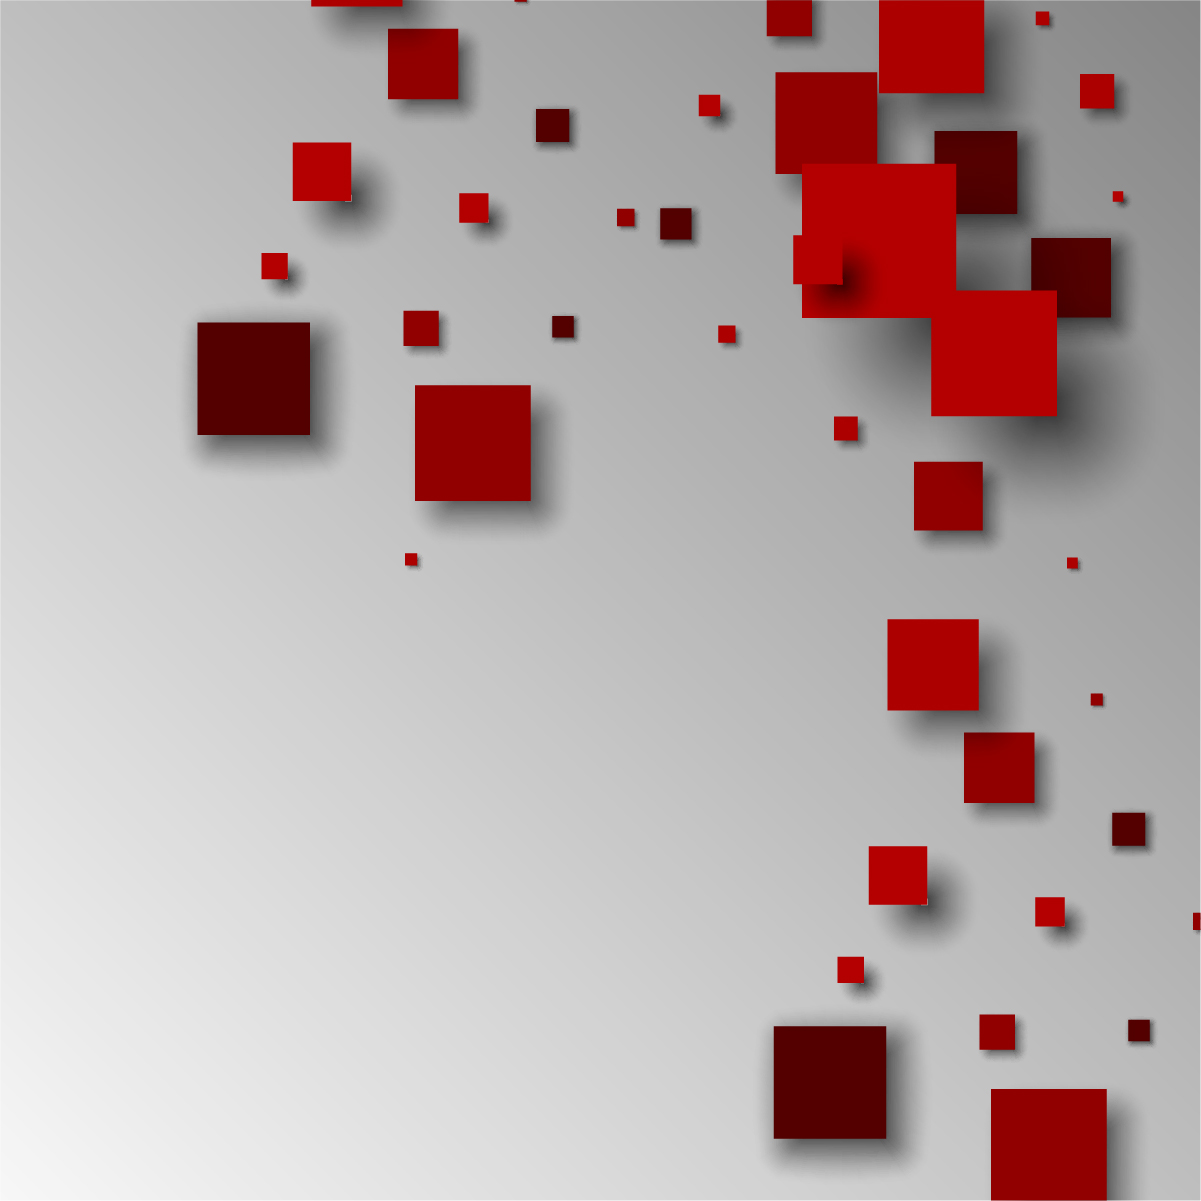
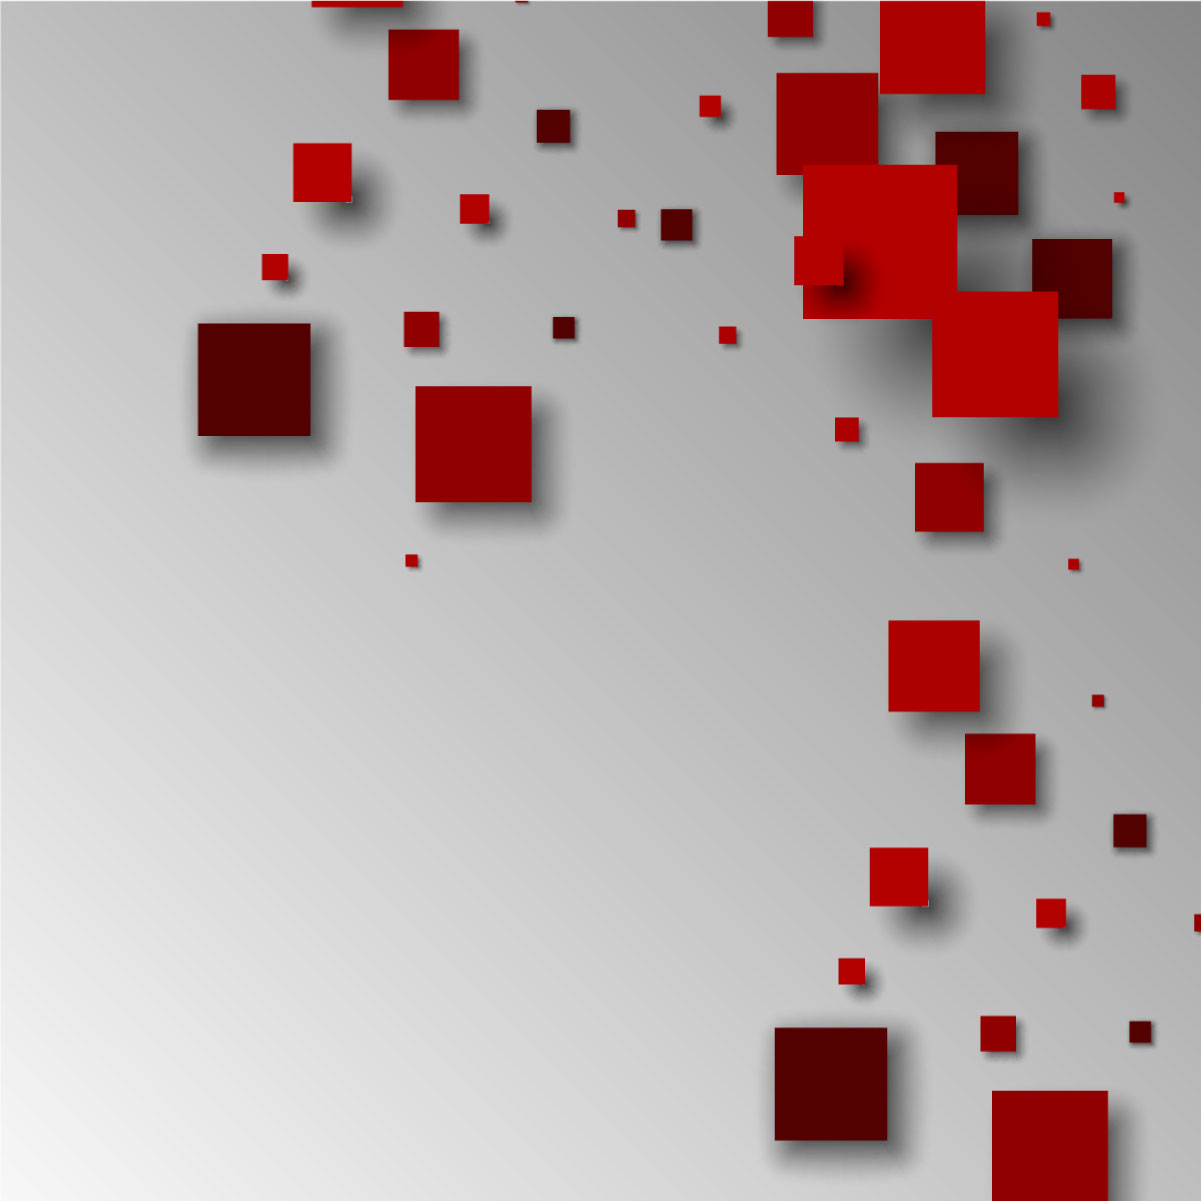
Compress images

diff --git a/index.html b/index.html
@@ -60,17 +60,17 @@
 	<div class="container-fluid">
 		<section id="work">
 			<figure class="col-md-3 col-sm-5 col-xs-8 left-item">
-				<img src="./images/project-1.png" class="img-responsive" alt="Website project" data-toggle="modal" data-target="#modal">
+				<img src="./images/project-1.jpg" class="img-responsive" alt="Website project" data-toggle="modal" data-target="#modal">
 				<figcaption><a href="http://en.iamtop.net/index.php/en/" target="_blank">The Company Website on JOOMLA!</a></figcaption>
 			</figure>
 			
 			<figure class="col-md-3 col-sm-5 col-xs-8 left-item">
-				<img src="./images/project-2.png" class="img-responsive" alt="Tribute Page" data-toggle="modal" data-target="#modal">
+				<img src="./images/project-2.jpg" class="img-responsive" alt="Tribute Page" data-toggle="modal" data-target="#modal">
 				<figcaption><a href="https://codepen.io/alexhuginn/full/XMmXQP/" target="_blank">Tribute Page. The FreeCodeCamp project</a></figcaption>
 			</figure>
 			
 			<figure class="col-md-3 col-sm-5 col-xs-8 right-item">
-				<img src="./images/project-3.png" class="img-responsive" alt="Random Quote Machine" data-toggle="modal" data-target="#modal">
+				<img src="./images/project-3.jpg" class="img-responsive" alt="Random Quote Machine" data-toggle="modal" data-target="#modal">
 				<figcaption><a href="https://codepen.io/alexhuginn/full/KqvJRN/" target="_blank">Random Quote Machine. The FreeCodeCamp project</a></figcaption>
 			</figure>
 			
